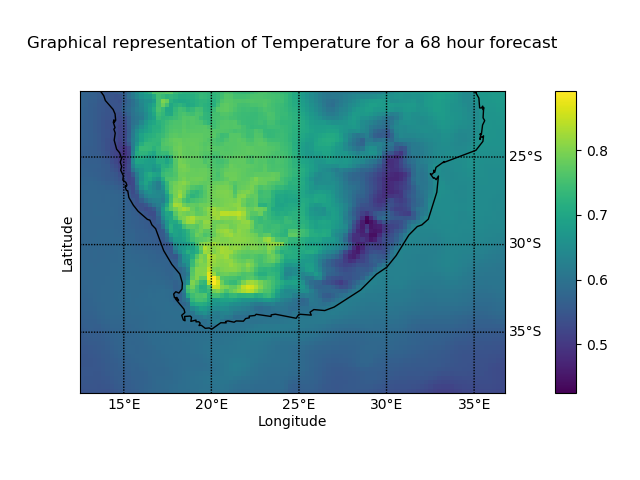
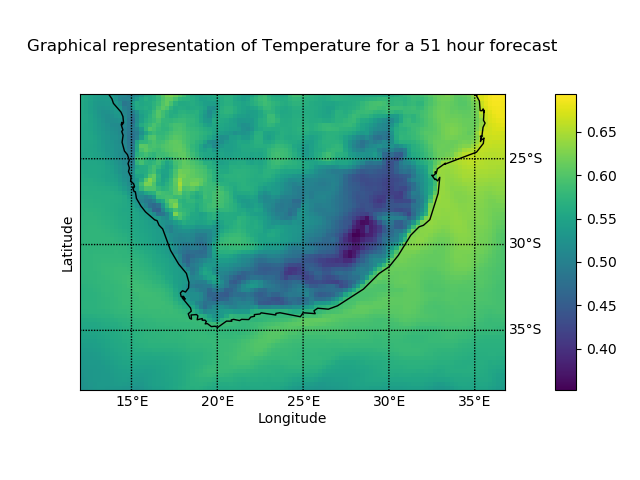
added mapbox graph

diff --git a/support/A8_oceanSurface.py b/support/A8_oceanSurface.py
@@ -31,7 +31,7 @@ import base64
 import matplotlib.pyplot as plt
 from mpl_toolkits.axes_grid1 import make_axes_locatable
 import os
-
+import plotly.graph_objs as go
 import matplotlib
 ## functions go here:
 
@@ -47,21 +47,34 @@ print(Longitude)
 
 ## This coordinate jumble will be fixed when the 'real' area is decided and
 ## incorporated
-x_lon = np.load(Longitude) # want ~10 tot ~35 #x
-lon = x_lon[50:260]
-lon = lon[::-1]
-x = lon[112:212]
+x_lon = np.load(Longitude)
+#x_lon = np.load('Longetude.npy') # want ~10 tot ~35 #x
+lont = x_lon[48:258]
+lont = lont[::-1]
+x = lont[110:212]
 #x = lon[20:120]
 xmin = np.min(x)
 xmax = np.max(x)
+
 y_lat = np.load(Latitude) #want -40 to -30  #x
+#y_lat = np.load('Lattitude.npy') #want -40 to -30  #x
 y_lat = y_lat[::-1]
-lat = y_lat[200-14:350-14]
-y = lat[20:90]
+latt = y_lat[200-14:350-14]
+y = latt[20:90]
 #y = lat[20:120]
 ymin = np.min(y)
 ymax = np.max(y)
+# For mapbox
+Xg = list(x.flatten())
+Yg = list(y.flatten())
+Xg, Yg = np.meshgrid(Xg, Yg)
+Lon = Xg.ravel('A')
+Lat = Yg.ravel('A')
+df = pd.DataFrame(np.zeros((len(Lon), 2)),columns=['lat', 'lon'])
+df['lat'] = Lat
+df['lon'] = Lon
 
+mapbox_access_token = "pk.eyJ1Ijoia2lyb2RoIiwiYSI6ImNrMDVjaWY0ZzBqaXAzbXFvenp3OWVpd2MifQ.apsaN8lTiMfqgsOArDA5Xg" # public
 
 ''' markdown texts '''
 markdown_text = '''
@@ -168,10 +181,12 @@ slider = html.Div([html.Label('Forecasting timestep of ocean parameter'),
 
 
 #    html.Label(id='message1',style={'marginLeft':80,'marginBottom':-2}),#, children='Please select ocean state variable and forecasted hour to view.'),
-graph = html.Div([
+image = html.Div([
                 html.Img(id='image'),
                 ], style={'marginLeft':250})
-
+    
+    
+graph = html.Div([dcc.Graph(id='map')], style={'marginLeft':200})
 
 
 ## this is where all your elements come together:
@@ -186,6 +201,8 @@ layout = html.Div([
     spacer,
     dropdown,
     slider,
+    image,
+    spacer,
     graph,
     spacer,
     html.Div(id='surface-display-value'),
@@ -210,8 +227,8 @@ def update_output(value):
 def plot_output(hour,var):
     var_array = str(var)+'.npy'
     selected_var = os.path.join(path, var_array)
-    df = np.load(selected_var)
-    f = df[int(hour)-1]
+    data = np.load(selected_var)
+    f = data[int(hour)-1]
     matplotlib.use('Agg')
     m = Basemap(projection='cyl', llcrnrlon=xmin,llcrnrlat=ymin,urcrnrlon=xmax,urcrnrlat=ymax,resolution='l')
     m.drawcoastlines()
@@ -242,3 +259,46 @@ def plot_output(hour,var):
     return src
 
 
+@app.callback(
+    dash.dependencies.Output('map', 'figure'),
+    [dash.dependencies.Input('my-daq-slider-ex', 'value'),
+    dash.dependencies.Input('variable', 'value')])
+def plot_output_test_mapbox(hour,var):
+    var_array = str(var)+'.npy'
+    selected_var = os.path.join(path, var_array)
+    data = np.load(selected_var)
+    #data = np.load(var_array)
+    #d=data[::-1]
+    h = data[int(hour)-1].ravel('A')
+    lt = df['lat'][::-1]
+    ln = df['lon'][::-1]
+    return {
+            'data': [
+                go.Scattermapbox(
+                    lat = lt,
+                    lon = ln,
+                    mode = 'markers',
+                    marker = dict(size=9, 
+                                  opacity=0.7, 
+                                  cmin=np.min(h), 
+                                  cmax=np.max(h),
+                                  color=h,
+                                  colorbar=dict(title='colourbar'),
+                                  colorscale='Viridis'
+                                  ),
+                    text=np.round(h,2))
+                    ],
+            'layout': go.Layout(
+                    margin = dict(l=30, r=20, t=0, b=0),
+                    width = 750,
+                    height = 550,
+                    hovermode = 'closest',
+                    mapbox = dict(
+                            accesstoken = mapbox_access_token,
+                            center=dict(lon=25, lat=-30),
+                            pitch=0,
+                            zoom=4
+                            )
+                        )}
+                    
+                    
